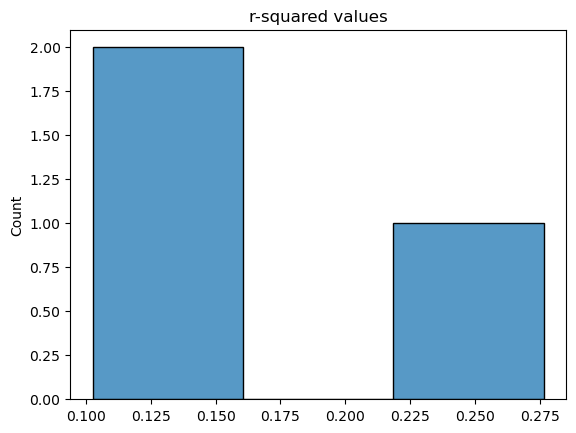
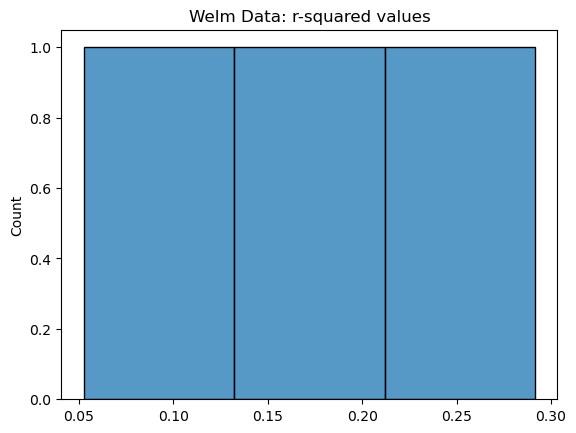
implemented running with random holdouts! Has option to run on synthetic data as well

diff --git a/pyro_model/code/test_evaluation.py b/pyro_model/code/test_evaluation.py
@@ -41,15 +41,13 @@ def generate_data(n_samp, n_drug, s_idx, d_idx, s_test_idx, d_test_idx):
 	assert obs_test.shape[0] == n_test
 	return obs_train, obs_test
 
-def dataset_indexing(args):
+def dataset_indexing(train_fn, test_fn, sample_fn, drug_fn):
 	train_fn, test_fn, sample_fn, drug_fn = files_from_args(args)
 	n_samp, n_drug, s_idx, d_idx, _ = modeling.get_model_inputs(train_fn, sample_fn, drug_fn)
 	_, _, s_test_idx, d_test_idx, _ = modeling.get_model_inputs(test_fn, sample_fn, drug_fn)
-	return n_samp, n_drug, s_idx, d_idx, s_test_idx, d_test_idx
+	return s_idx, d_idx, s_test_idx, d_test_idx
 
-def random_indexing(args, n_total_obs):
-	train_fn, test_fn, sample_fn, drug_fn = files_from_args(args)
-	n_samp, n_drug, _, _, _ = modeling.get_model_inputs(train_fn, sample_fn, drug_fn)
+def random_indexing(n_samp, n_drug, n_total_obs):
 	# generate sample, drug indices
 	s_indices = np.random.choice(range(n_samp), size=(n_total_obs,))
 	d_indices = np.random.choice(range(n_drug), size=(n_total_obs,))
@@ -58,7 +56,7 @@ def random_indexing(args, n_total_obs):
 	s_test_idx = s_indices[n_train:]
 	d_idx = d_indices[:n_train]
 	d_test_idx = d_indices[n_train:]
-	return n_samp, n_drug, s_idx, d_idx, s_test_idx, d_test_idx
+	return s_idx, d_idx, s_test_idx, d_test_idx
 
 def get_real_data(directory):
 	train_fn = directory + '/train.pkl'
@@ -70,12 +68,16 @@ def get_real_data(directory):
 	obs_test = obs_test.detach().numpy()
 	return n_samp, n_drug, s_idx, d_idx, s_test_idx, d_test_idx, obs_train, obs_test
 
-def get_synthetic_data(args, n_total_obs=None):
-	if n_total_obs is not None:
+def get_synthetic_data(directory, n_total_obs=None):
+	train_fn = directory + '/train.pkl'
+	test_fn = directory + '/test.pkl'
+	sample_fn = directory + '/sample_dict.pkl'
+	drug_fn = directory + '/drug_dict.pkl'
+	n_samp, n_drug, s_idx, d_idx, _ = modeling.get_model_inputs(train_fn, sample_fn, drug_fn)
+	_, _, s_test_idx, d_test_idx, _ = modeling.get_model_inputs(test_fn, sample_fn, drug_fn)
+	if n_total_obs != -1:
 		# generate n_total_obs number of samples, with randomly chosen s_idx, d_idx
-		n_samp, n_drug, s_idx, d_idx, s_test_idx, d_test_idx = random_indexing(args, n_total_obs)
-	else:
-		n_samp, n_drug, s_idx, d_idx, s_test_idx, d_test_idx = dataset_indexing(args)
+		s_idx, d_idx, s_test_idx, d_test_idx = random_indexing(n_samp, n_drug, n_total_obs)
 	obs_train, obs_test = generate_data(n_samp, n_drug, s_idx, d_idx, s_test_idx, d_test_idx)
 	return n_samp, n_drug, s_idx, d_idx, s_test_idx, d_test_idx, obs_train, obs_test
 
@@ -181,33 +183,54 @@ def evaluation(mcmc_samples, s_test_idx, d_test_idx, obs_test, hi, lo):
 	coverage = evaluate.coverage(mu, sigma, obs_test, hi, lo)
 	return r_sq, coverage
 
-def histogram_r_sq(r_sq_fn, write_fn):
+def histogram_r_sq(r_sq_fn, write_fn, use_real_data):
+	prefix = 'Synthetic: '
+	if use_real_data:
+		prefix = 'Welm Data: '
 	r_sq_list = np.loadtxt(r_sq_fn)
 	fig = plt.figure()
 	sns.histplot(r_sq_list)
-	plt.title('r-squared values')
+	plt.title(prefix + 'r-squared values')
 	plt.savefig(write_fn, bbox_inches='tight')
 	plt.clf()
 	plt.close()
 
-def histogram_coverage(cov_fn, write_fn):
+def histogram_coverage(cov_fn, write_fn, use_real_data):
+	prefix = 'Synthetic: '
+	if use_real_data:
+		prefix = 'Welm Data: '
 	cov_list = np.loadtxt(cov_fn)
 	fig = plt.figure()
 	sns.histplot(cov_list)
-	plt.title('coverage')
+	plt.title(prefix + 'coverage')
 	plt.savefig(write_fn, bbox_inches='tight')
 	plt.clf()
 	plt.close()
 
-def save_args(args):
-	train_fn, test_fn, sample_fn, drug_fn = files_from_args(args)
-	n_total_obs, n_mcmc, n_warmup, n_iter, directory = params_from_args(sys.argv)
-	input_args = {'train_fn': train_fn, 'test_fn': test_fn, 'sample_fn': sample_fn, 'drug_fn': drug_fn, 
-	    'n_total_obs': n_total_obs, 'n_mcmc': n_mcmc, 'n_warmup': n_warmup, 'n_iter': n_iter, 'directory': directory}
+# def save_args(args):
+# 	train_fn, test_fn, sample_fn, drug_fn = files_from_args(args)
+# 	n_total_obs, n_mcmc, n_warmup, n_iter, directory = params_from_args(sys.argv)
+# 	input_args = {'train_fn': train_fn, 'test_fn': test_fn, 'sample_fn': sample_fn, 'drug_fn': drug_fn, 
+# 	    'n_total_obs': n_total_obs, 'n_mcmc': n_mcmc, 'n_warmup': n_warmup, 'n_iter': n_iter, 'directory': directory}
+# 	helpers.write_to_pickle(input_args, directory + '/input_args.pkl')
+
+# extracts and saves args
+def retrieve_args(args):
+	data_dir = args[1].split("=")[1]
+	n_total_obs = int(args[2].split("=")[1])
+	n_mcmc = int(args[3].split("=")[1])
+	n_warmup = int(args[4].split("=")[1])
+	n_iter = int(args[5].split("=")[1])
+	thinning = int(args[6].split("=")[1])
+	directory = args[7].split("=")[1]
+	use_real_data = bool(int(args[8].split("=")[1]))
+	input_args = {'data_dir': data_dir, 'n_total_obs': n_total_obs, 'n_mcmc': n_mcmc, 'n_warmpup': n_warmup, 'n_iter': n_iter, 'thining': thinning,
+	    'directory': directory, 'use_real_data': use_real_data}
 	helpers.write_to_pickle(input_args, directory + '/input_args.pkl')
+	return data_dir, n_total_obs, n_mcmc, n_warmup, n_iter, thinning, directory, use_real_data
 
 def main_synth_data():
-	helpers.check_args(sys.argv, 10)
+	helpers.check_args(sys.argv, 9)
 	save_args(sys.argv)
 	n_total_obs, n_mcmc, n_warmup, n_iter, directory = params_from_args(sys.argv)
 	r_sq_fn = directory + '/r_squared.txt'
@@ -235,23 +258,15 @@ def main_synth_data():
 	histogram_r_sq(r_sq_fn, r_sq_plot_fn)
 	histogram_coverage(cov_fn, cov_plot_fn)
 
-def main_real_data():
-	args = sys.argv
-	helpers.check_args(args, 8)
-	#save_args(sys.argv)
-	# read in args
-	data_dir = args[1].split("=")[1]
-	n_total_obs = int(args[2].split("=")[1])
-	n_mcmc = int(args[3].split("=")[1])
-	n_warmup = int(args[4].split("=")[1])
-	n_iter = int(args[5].split("=")[1])
-	thinning = int(args[6].split("=")[1])
-	directory = args[7].split("=")[1]
+def main():
+	helpers.check_args(sys.argv, 9)
+	data_dir, n_total_obs, n_mcmc, n_warmup, n_iter, thinning, directory, use_real_data = retrieve_args(sys.argv)
     # define file fns
 	r_sq_fn = directory + '/r_squared.txt'
 	cov_fn = directory + '/coverage.txt'
 	r_sq_list = []
 	cov_list = []
+	# decide whether to use real or synthetic data
 	for seed in range(n_iter):
 		pyro.set_rng_seed(seed)
 		pyro.clear_param_store()
@@ -259,10 +274,12 @@ def main_real_data():
 		data_fn = data_dir + '/welm_pdx_clean_mid_volume.csv'
 		split_dir = data_dir + '/split'
 		split_helpers.split_dataset(data_fn, split_dir)
-		# get real data
-		n_samp, n_drug, s_idx, d_idx, s_test_idx, d_test_idx, obs_train, obs_test = get_real_data(split_dir)
+		if use_real_data:
+			n_samp, n_drug, s_idx, d_idx, s_test_idx, d_test_idx, obs_train, obs_test = get_real_data(split_dir)
+		else:
+			n_samp, n_drug, s_idx, d_idx, s_test_idx, d_test_idx, obs_train, obs_test = get_synthetic_data(split_dir, n_total_obs)
 		# fit model to synthetic data
-		mcmc_samples = get_mcmc_samples_with_simple_thinning(n_samp, n_drug, s_idx, d_idx, const.PARAMS, obs_train, n_mcmc, n_warmup, thinning=2)
+		mcmc_samples = get_mcmc_samples_with_simple_thinning(n_samp, n_drug, s_idx, d_idx, const.PARAMS, obs_train, n_mcmc, n_warmup, thinning=thinning)
 		# evaluate vs test set
 		r_sq, cov = evaluation(mcmc_samples, s_test_idx, d_test_idx, obs_test, const.HI, const.LO)
 		r_sq_list.append(r_sq)
@@ -275,8 +292,8 @@ def main_real_data():
 	print(cov_list)
 	r_sq_plot_fn = directory + '/r_squared_plot.png'
 	cov_plot_fn = directory + '/coverage_plot.png'
-	histogram_r_sq(r_sq_fn, r_sq_plot_fn)
-	histogram_coverage(cov_fn, cov_plot_fn)
+	histogram_r_sq(r_sq_fn, r_sq_plot_fn, use_real_data)
+	histogram_coverage(cov_fn, cov_plot_fn, use_real_data)
 
 def simply_get_mcmc_samples():
 	helpers.check_args(sys.argv, 10)
@@ -410,6 +427,5 @@ def test_random_seed_with_generate_samples():
 	print(obs_test2[0])
 
 if __name__ == "__main__":
-    #main()
-    main_real_data()
+	main()
     #main_synth_data()
